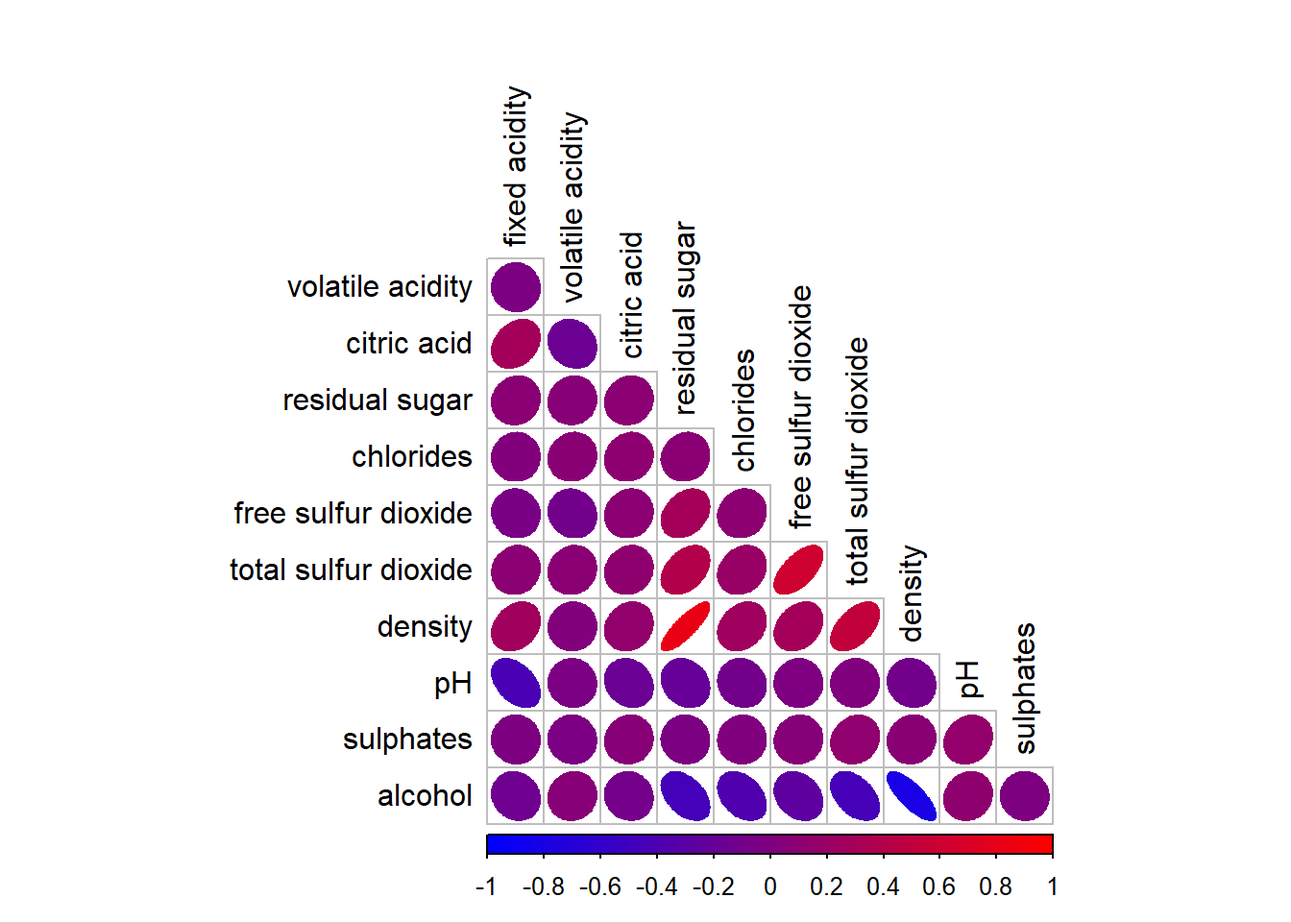
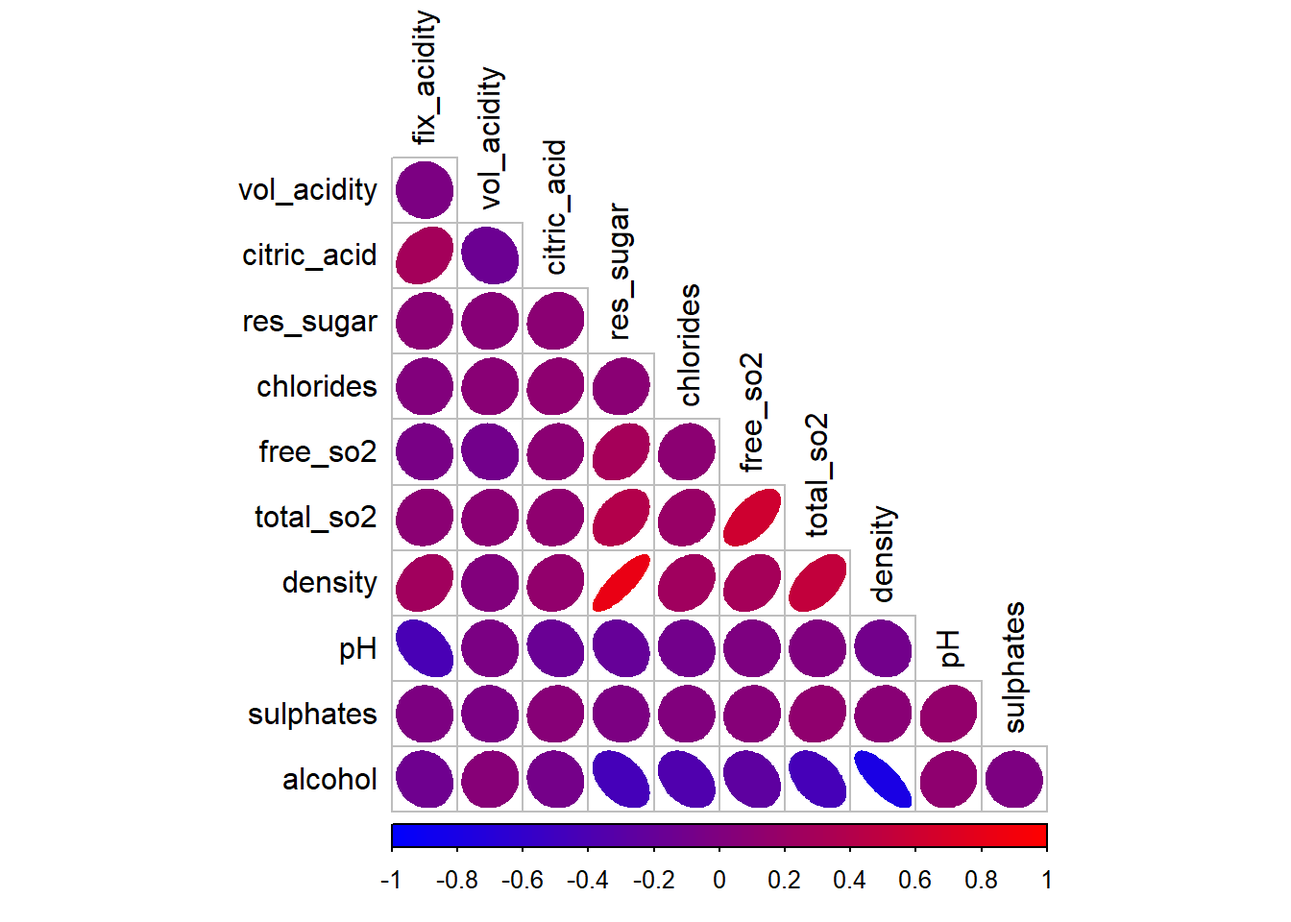
reduce-dim.qmd: replace wine_quality tibble with wq_data, which abbreviates the names of the 13 variables (columns).

Changed region(s): [[0.1875, 0.0, 0.8125, 0.9688]]

diff --git a/_book/reduce-dim.html b/_book/reduce-dim.html
@@ -395,7 +395,9 @@ window.Quarto = {
   <ul class="collapse">
   <li><a href="#model-of-k-categories" id="toc-model-of-k-categories" class="nav-link" data-scroll-target="#model-of-k-categories"><span class="header-section-number">7.4.1.1</span> Model of <span class="math inline">\(K\)</span> Categories</a></li>
   <li><a href="#binary-case-k-2" id="toc-binary-case-k-2" class="nav-link" data-scroll-target="#binary-case-k-2"><span class="header-section-number">7.4.1.2</span> Binary Case: <span class="math inline">\(K = 2\)</span></a></li>
-  <li><a href="#wine-quality-example" id="toc-wine-quality-example" class="nav-link" data-scroll-target="#wine-quality-example"><span class="header-section-number">7.4.1.3</span> Wine Quality Example</a></li>
+  <li><a href="#wine-quality-d-2-k-2" id="toc-wine-quality-d-2-k-2" class="nav-link" data-scroll-target="#wine-quality-d-2-k-2"><span class="header-section-number">7.4.1.3</span> Wine Quality: <span class="math inline">\(d = 2\)</span>, <span class="math inline">\(K = 2\)</span></a></li>
+  <li><a href="#wine-quality-d-2-k-4" id="toc-wine-quality-d-2-k-4" class="nav-link" data-scroll-target="#wine-quality-d-2-k-4"><span class="header-section-number">7.4.1.4</span> Wine Quality: <span class="math inline">\(d = 2\)</span>, <span class="math inline">\(K = 4\)</span></a></li>
+  <li><a href="#wine-quality-d-11-k-2" id="toc-wine-quality-d-11-k-2" class="nav-link" data-scroll-target="#wine-quality-d-11-k-2"><span class="header-section-number">7.4.1.5</span> Wine Quality: <span class="math inline">\(d = 11\)</span>, <span class="math inline">\(K = 2\)</span></a></li>
   </ul></li>
   <li><a href="#pls-partial-least-squares" id="toc-pls-partial-least-squares" class="nav-link" data-scroll-target="#pls-partial-least-squares"><span class="header-section-number">7.4.2</span> PLS: Partial Least Squares</a></li>
   </ul></li>
@@ -441,7 +443,7 @@ window.Quarto = {
     <div>
     <div class="quarto-title-meta-heading">Published</div>
     <div class="quarto-title-meta-contents">
-      <p class="date">11:15 Mon 17-Nov-2025</p>
+      <p class="date">06:21 Tue 18-Nov-2025</p>
     </div>
   </div>
   
@@ -641,8 +643,8 @@ Figure&nbsp;7.1: Violent Crime Rates per US State (1973)
 <div id="fig-arrests-3d-scatter" class="cell-output-display quarto-float quarto-figure quarto-figure-center anchored">
 <figure class="quarto-float quarto-float-fig figure">
 <div aria-describedby="fig-arrests-3d-scatter-caption-0ceaefa1-69ba-4598-a22c-09a6ac19f8ca">
-<div class="plotly html-widget html-fill-item" id="htmlwidget-da0c208e6eccc521fa19" style="width:100%;height:464px;"></div>
-<script type="application/json" data-for="htmlwidget-da0c208e6eccc521fa19">{"x":{"visdat":{"38f03af828eb":["function () ","plotlyVisDat"]},"cur_data":"38f03af828eb","attrs":{"38f03af828eb":{"x":{},"y":{},"z":{},"mode":"markers","text":{},"marker":{"size":5,"color":{},"colorscale":"Viridis","showscale":true,"colorbar":{"title":"UrbanPop"}},"alpha_stroke":1,"sizes":[10,100],"spans":[1,20],"type":"scatter3d"}},"layout":{"margin":{"b":40,"l":60,"t":25,"r":10},"scene":{"xaxis":{"title":"Assault"},"yaxis":{"title":"Rape"},"zaxis":{"title":"Murder"}},"title":"Violent Crime Rates in each US State (1973)","hovermode":"closest","showlegend":false},"source":"A","config":{"modeBarButtonsToAdd":["hoverclosest","hovercompare"],"showSendToCloud":false},"data":[{"x":[236,263,294,190,276,204,110,238,335,211,46,120,249,113,56,115,109,249,83,300,149,255,72,259,178,109,102,252,57,159,285,254,337,45,120,151,159,106,174,279,86,188,201,120,48,156,145,81,53,161],"y":[21.199999999999999,44.5,31,19.5,40.600000000000001,38.700000000000003,11.1,15.800000000000001,31.899999999999999,25.800000000000001,20.199999999999999,14.199999999999999,24,21,11.300000000000001,18,16.300000000000001,22.199999999999999,7.7999999999999998,27.800000000000001,16.300000000000001,35.100000000000001,14.9,17.100000000000001,28.199999999999999,16.399999999999999,16.5,46,9.5,18.800000000000001,32.100000000000001,26.100000000000001,16.100000000000001,7.2999999999999998,21.399999999999999,20,29.300000000000001,14.9,8.3000000000000007,22.5,12.800000000000001,26.899999999999999,25.5,22.899999999999999,11.199999999999999,20.699999999999999,26.199999999999999,9.3000000000000007,10.800000000000001,15.6],"z":[13.199999999999999,10,8.0999999999999996,8.8000000000000007,9,7.9000000000000004,3.2999999999999998,5.9000000000000004,15.4,17.399999999999999,5.2999999999999998,2.6000000000000001,10.4,7.2000000000000002,2.2000000000000002,6,9.6999999999999993,15.4,2.1000000000000001,11.300000000000001,4.4000000000000004,12.1,2.7000000000000002,16.100000000000001,9,6,4.2999999999999998,12.199999999999999,2.1000000000000001,7.4000000000000004,11.4,11.1,13,0.80000000000000004,7.2999999999999998,6.5999999999999996,4.9000000000000004,6.2999999999999998,3.3999999999999999,14.4,3.7999999999999998,13.199999999999999,12.699999999999999,3.2000000000000002,2.2000000000000002,8.5,4,5.7000000000000002,2.6000000000000001,6.7999999999999998],"mode":"markers","text":["AL","AK","AZ","AR","CA","CO","CT","DE","FL","GA","HI","ID","IL","IN","IA","KS","KY","LA","ME","MD","MA","MI","MN","MS","MO","MT","NE","NV","NH","NJ","NM","NY","NC","ND","OH","OK","OR","PA","RI","SC","SD","TN","TX","UT","VT","VA","WA","WV","WI","WY"],"marker":{"color":[58,48,80,50,91,78.5,77,72,80.5,60,83,54,83,65,57,66,52,66,51,76.599999999999994,85,74,66,44.5,70,53,61.5,81,56,89,70,86,45,44,75,68,67,71.5,87,48,45,59,80,80,32,63,73,39,66,60.5],"size":5,"colorscale":"Viridis","showscale":true,"colorbar":{"title":"UrbanPop"},"line":{"color":"rgba(31,119,180,1)"}},"type":"scatter3d","error_y":{"color":"rgba(31,119,180,1)"},"error_x":{"color":"rgba(31,119,180,1)"},"line":{"color":"rgba(31,119,180,1)"},"frame":null}],"highlight":{"on":"plotly_click","persistent":false,"dynamic":false,"selectize":false,"opacityDim":0.20000000000000001,"selected":{"opacity":1},"debounce":0},"shinyEvents":["plotly_hover","plotly_click","plotly_selected","plotly_relayout","plotly_brushed","plotly_brushing","plotly_clickannotation","plotly_doubleclick","plotly_deselect","plotly_afterplot","plotly_sunburstclick"],"base_url":"https://plot.ly"},"evals":[],"jsHooks":[]}</script>
+<div class="plotly html-widget html-fill-item" id="htmlwidget-3d6d928dc6110e070afd" style="width:100%;height:464px;"></div>
+<script type="application/json" data-for="htmlwidget-3d6d928dc6110e070afd">{"x":{"visdat":{"66077d33370":["function () ","plotlyVisDat"]},"cur_data":"66077d33370","attrs":{"66077d33370":{"x":{},"y":{},"z":{},"mode":"markers","text":{},"marker":{"size":5,"color":{},"colorscale":"Viridis","showscale":true,"colorbar":{"title":"UrbanPop"}},"alpha_stroke":1,"sizes":[10,100],"spans":[1,20],"type":"scatter3d"}},"layout":{"margin":{"b":40,"l":60,"t":25,"r":10},"scene":{"xaxis":{"title":"Assault"},"yaxis":{"title":"Rape"},"zaxis":{"title":"Murder"}},"title":"Violent Crime Rates in each US State (1973)","hovermode":"closest","showlegend":false},"source":"A","config":{"modeBarButtonsToAdd":["hoverclosest","hovercompare"],"showSendToCloud":false},"data":[{"x":[236,263,294,190,276,204,110,238,335,211,46,120,249,113,56,115,109,249,83,300,149,255,72,259,178,109,102,252,57,159,285,254,337,45,120,151,159,106,174,279,86,188,201,120,48,156,145,81,53,161],"y":[21.199999999999999,44.5,31,19.5,40.600000000000001,38.700000000000003,11.1,15.800000000000001,31.899999999999999,25.800000000000001,20.199999999999999,14.199999999999999,24,21,11.300000000000001,18,16.300000000000001,22.199999999999999,7.7999999999999998,27.800000000000001,16.300000000000001,35.100000000000001,14.9,17.100000000000001,28.199999999999999,16.399999999999999,16.5,46,9.5,18.800000000000001,32.100000000000001,26.100000000000001,16.100000000000001,7.2999999999999998,21.399999999999999,20,29.300000000000001,14.9,8.3000000000000007,22.5,12.800000000000001,26.899999999999999,25.5,22.899999999999999,11.199999999999999,20.699999999999999,26.199999999999999,9.3000000000000007,10.800000000000001,15.6],"z":[13.199999999999999,10,8.0999999999999996,8.8000000000000007,9,7.9000000000000004,3.2999999999999998,5.9000000000000004,15.4,17.399999999999999,5.2999999999999998,2.6000000000000001,10.4,7.2000000000000002,2.2000000000000002,6,9.6999999999999993,15.4,2.1000000000000001,11.300000000000001,4.4000000000000004,12.1,2.7000000000000002,16.100000000000001,9,6,4.2999999999999998,12.199999999999999,2.1000000000000001,7.4000000000000004,11.4,11.1,13,0.80000000000000004,7.2999999999999998,6.5999999999999996,4.9000000000000004,6.2999999999999998,3.3999999999999999,14.4,3.7999999999999998,13.199999999999999,12.699999999999999,3.2000000000000002,2.2000000000000002,8.5,4,5.7000000000000002,2.6000000000000001,6.7999999999999998],"mode":"markers","text":["AL","AK","AZ","AR","CA","CO","CT","DE","FL","GA","HI","ID","IL","IN","IA","KS","KY","LA","ME","MD","MA","MI","MN","MS","MO","MT","NE","NV","NH","NJ","NM","NY","NC","ND","OH","OK","OR","PA","RI","SC","SD","TN","TX","UT","VT","VA","WA","WV","WI","WY"],"marker":{"color":[58,48,80,50,91,78.5,77,72,80.5,60,83,54,83,65,57,66,52,66,51,76.599999999999994,85,74,66,44.5,70,53,61.5,81,56,89,70,86,45,44,75,68,67,71.5,87,48,45,59,80,80,32,63,73,39,66,60.5],"size":5,"colorscale":"Viridis","showscale":true,"colorbar":{"title":"UrbanPop"},"line":{"color":"rgba(31,119,180,1)"}},"type":"scatter3d","error_y":{"color":"rgba(31,119,180,1)"},"error_x":{"color":"rgba(31,119,180,1)"},"line":{"color":"rgba(31,119,180,1)"},"frame":null}],"highlight":{"on":"plotly_click","persistent":false,"dynamic":false,"selectize":false,"opacityDim":0.20000000000000001,"selected":{"opacity":1},"debounce":0},"shinyEvents":["plotly_hover","plotly_click","plotly_selected","plotly_relayout","plotly_brushed","plotly_brushing","plotly_clickannotation","plotly_doubleclick","plotly_deselect","plotly_afterplot","plotly_sunburstclick"],"base_url":"https://plot.ly"},"evals":[],"jsHooks":[]}</script>
 </div>
 <figcaption class="quarto-float-caption-bottom quarto-float-caption quarto-float-fig" id="fig-arrests-3d-scatter-caption-0ceaefa1-69ba-4598-a22c-09a6ac19f8ca">
 Figure&nbsp;7.2: Violent Crime Rates in each US State (1973)
@@ -827,22 +829,22 @@ Table&nbsp;7.4: Feature-quality correleations among (red, white) wines
 </thead>
 <tbody>
 <tr class="odd">
-<td style="text-align: left;">fixed acidity</td>
+<td style="text-align: left;">fix_acidity</td>
 <td style="text-align: right;">0.12</td>
 <td style="text-align: right;">-0.11</td>
 </tr>
 <tr class="even">
-<td style="text-align: left;">volatile acidity</td>
+<td style="text-align: left;">vol_acidity</td>
 <td style="text-align: right;">-0.39</td>
 <td style="text-align: right;">-0.19</td>
 </tr>
 <tr class="odd">
-<td style="text-align: left;">citric acid</td>
+<td style="text-align: left;">citric_acid</td>
 <td style="text-align: right;">0.23</td>
 <td style="text-align: right;">-0.01</td>
 </tr>
 <tr class="even">
-<td style="text-align: left;">residual sugar</td>
+<td style="text-align: left;">res_sugar</td>
 <td style="text-align: right;">0.01</td>
 <td style="text-align: right;">-0.10</td>
 </tr>
@@ -852,12 +854,12 @@ Table&nbsp;7.4: Feature-quality correleations among (red, white) wines
 <td style="text-align: right;">-0.21</td>
 </tr>
 <tr class="even">
-<td style="text-align: left;">free sulfur dioxide</td>
+<td style="text-align: left;">free_so2</td>
 <td style="text-align: right;">-0.05</td>
 <td style="text-align: right;">0.01</td>
 </tr>
 <tr class="odd">
-<td style="text-align: left;">total sulfur dioxide</td>
+<td style="text-align: left;">total_so2</td>
 <td style="text-align: right;">-0.19</td>
 <td style="text-align: right;">-0.17</td>
 </tr>
@@ -953,8 +955,8 @@ Figure&nbsp;7.6: Principal Components: (father, son) centered heights
 <div id="fig-arm-pca" class="cell-output-display quarto-float quarto-figure quarto-figure-center anchored">
 <figure class="quarto-float quarto-float-fig figure">
 <div aria-describedby="fig-arm-pca-caption-0ceaefa1-69ba-4598-a22c-09a6ac19f8ca">
-<div class="plotly html-widget html-fill-item" id="htmlwidget-109642606b304befbd61" style="width:100%;height:464px;"></div>
-<script type="application/json" data-for="htmlwidget-109642606b304befbd61">{"x":{"visdat":{"38f03ee91941":["function () ","plotlyVisDat"]},"cur_data":"38f03ee91941","attrs":{"38f03ee91941":{"x":[0.78283934708991831,1.106822522617628,1.4788032056309246,0.23086801100567186,1.2628144219457846,0.39885928720522512,-0.72908213870606098,0.80683810083271157,1.9707776573581877,0.48285492530500174,-1.4970422584754473,-0.60908836999209437,0.93883124641807492,-0.69308400809187098,-1.3770484897614808,-0.66908525434907773,-0.74108151557745772,0.93883124641807492,-1.0530653142337709,1.5507994668593046,-0.26110644072159123,1.0108275076464548,-1.185058459819134,1.0588250151320415,0.086875488548911931,-0.74108151557745772,-0.82507715367723433,0.9748293770322648,-1.3650491128900841,-0.14111267200762462,1.3708088137883547,0.99882813077505817,1.9947764111009809,-1.5090416353468439,-0.60908836999209437,-0.23710768697879792,-0.14111267200762462,-0.7770796461916476,0.038877981063325288,1.2988125525599747,-1.0170671836195808,0.20686925726287855,0.36286115659103513,-0.60908836999209437,-1.473043504732654,-0.17711080262181461,-0.3091039482071779,-1.0770640679765642,-1.4130466203756706,-0.11711391826483131],"y":[-0.0034164730151624227,2.4842029411499742,1.0428783878783285,-0.18491660194566589,2.0678202924270548,1.8649672071517862,-1.0817407684258011,-0.57994629432382061,1.1389666914297716,0.48770152291443553,-0.11018125473898803,-0.75076994508194173,0.29552491581154938,-0.024769429359927469,-1.0603878120810357,-0.3450637745314043,-0.52656390346190773,0.10334830870866318,-1.4340645481144254,0.70123108636208675,-0.52656390346190773,1.4806139929460138,-0.67603459787526365,-0.44115207808284718,0.74393699905161681,-0.51588742528952547,-0.50521094711714276,2.6443501137357126,-1.252564419183922,-0.25965194915234374,1.160319647774537,0.51973095743158326,-0.54791685980667282,-1.4874469389763383,0.017936483329602623,-0.13153421108375307,0.86137825894782516,-0.67603459787526365,-1.3806821572525125,0.13537774322581095,-0.90024063949529742,0.60514278281064349,0.45567208839728779,0.17808365591534103,-1.0710642902534184,-0.05679886387707523,0.53040743560396564,-1.273917375528687,-1.1137702029429486,-0.60129925066858581],"z":[1.2425640838811227,0.50786248217757646,0.071633406166095634,0.23234938153874665,0.27826823164521813,0.025714556059624149,-1.0304189963892241,-0.43347394500509234,1.747671435052311,2.2068599361170271,-0.57123049532450743,-1.1911349717618749,0.59970018239051981,-0.13500141931302667,-1.282972671974818,-0.41051451995185662,0.43898420701786878,1.747671435052311,-1.3059320970280539,0.8063350078696423,-0.7778653208036298,0.99001040829552867,-1.1681755467086388,1.9083874104249621,0.27826823164521813,-0.41051451995185662,-0.80082474585686569,1.0129698333487644,-1.3059320970280539,-0.089082569206554982,0.82929443292287808,0.7604161577631704,1.1966452337746512,-1.6044046227201196,-0.11204199425979093,-0.27275796963244175,-0.66306819553745067,-0.34163624479214921,-1.007459571335988,1.5180771845199528,-0.91562187112304483,1.2425640838811227,1.1277669586149435,-1.0533784214424597,-1.282972671974818,0.16347110637903903,-0.86970302101657315,-0.47939279511156407,-1.1911349717618749,-0.22683911952597005],"mode":"markers","text":["AL","AK","AZ","AR","CA","CO","CT","DE","FL","GA","HI","ID","IL","IN","IA","KS","KY","LA","ME","MD","MA","MI","MN","MS","MO","MT","NE","NV","NH","NJ","NM","NY","NC","ND","OH","OK","OR","PA","RI","SC","SD","TN","TX","UT","VT","VA","WA","WV","WI","WY"],"marker":{"size":4,"color":"steelblue","opacity":0.69999999999999996},"name":"State","alpha_stroke":1,"sizes":[10,100],"spans":[1,20],"type":"scatter3d"},"38f03ee91941.1":{"x":[0,1.5489298635318458],"y":[0,1.3741651111024438],"z":[0,1.4842670890217005],"type":"scatter3d","mode":"lines","line":{"width":6,"color":"darkorange"},"name":"PC1","showlegend":false,"inherit":false},"38f03ee91941.2":{"x":[0,-0.29354746751601463],"y":[0,1.1219106831632701],"z":[0,-0.73235207316550643],"type":"scatter3d","mode":"lines","line":{"width":6,"color":"purple"},"name":"PC2","showlegend":false,"inherit":false},"38f03ee91941.3":{"x":[0,0.68703516343273274],"y":[0,-0.17966971158361228],"z":[0,-0.55062423656922754],"type":"scatter3d","mode":"lines","line":{"width":6,"color":"darkgreen"},"name":"PC3","showlegend":false,"inherit":false}},"layout":{"margin":{"b":40,"l":60,"t":25,"r":10},"scene":{"xaxis":{"title":"z_Assault"},"yaxis":{"title":"z_Rape"},"zaxis":{"title":"z_Murder"},"aspectmode":"cube"},"title":"US Arrest Z-scores: Principal Components","hovermode":"closest","showlegend":false},"source":"A","config":{"modeBarButtonsToAdd":["hoverclosest","hovercompare"],"showSendToCloud":false},"data":[{"x":[0.78283934708991831,1.106822522617628,1.4788032056309246,0.23086801100567186,1.2628144219457846,0.39885928720522512,-0.72908213870606098,0.80683810083271157,1.9707776573581877,0.48285492530500174,-1.4970422584754473,-0.60908836999209437,0.93883124641807492,-0.69308400809187098,-1.3770484897614808,-0.66908525434907773,-0.74108151557745772,0.93883124641807492,-1.0530653142337709,1.5507994668593046,-0.26110644072159123,1.0108275076464548,-1.185058459819134,1.0588250151320415,0.086875488548911931,-0.74108151557745772,-0.82507715367723433,0.9748293770322648,-1.3650491128900841,-0.14111267200762462,1.3708088137883547,0.99882813077505817,1.9947764111009809,-1.5090416353468439,-0.60908836999209437,-0.23710768697879792,-0.14111267200762462,-0.7770796461916476,0.038877981063325288,1.2988125525599747,-1.0170671836195808,0.20686925726287855,0.36286115659103513,-0.60908836999209437,-1.473043504732654,-0.17711080262181461,-0.3091039482071779,-1.0770640679765642,-1.4130466203756706,-0.11711391826483131],"y":[-0.0034164730151624227,2.4842029411499742,1.0428783878783285,-0.18491660194566589,2.0678202924270548,1.8649672071517862,-1.0817407684258011,-0.57994629432382061,1.1389666914297716,0.48770152291443553,-0.11018125473898803,-0.75076994508194173,0.29552491581154938,-0.024769429359927469,-1.0603878120810357,-0.3450637745314043,-0.52656390346190773,0.10334830870866318,-1.4340645481144254,0.70123108636208675,-0.52656390346190773,1.4806139929460138,-0.67603459787526365,-0.44115207808284718,0.74393699905161681,-0.51588742528952547,-0.50521094711714276,2.6443501137357126,-1.252564419183922,-0.25965194915234374,1.160319647774537,0.51973095743158326,-0.54791685980667282,-1.4874469389763383,0.017936483329602623,-0.13153421108375307,0.86137825894782516,-0.67603459787526365,-1.3806821572525125,0.13537774322581095,-0.90024063949529742,0.60514278281064349,0.45567208839728779,0.17808365591534103,-1.0710642902534184,-0.05679886387707523,0.53040743560396564,-1.273917375528687,-1.1137702029429486,-0.60129925066858581],"z":[1.2425640838811227,0.50786248217757646,0.071633406166095634,0.23234938153874665,0.27826823164521813,0.025714556059624149,-1.0304189963892241,-0.43347394500509234,1.747671435052311,2.2068599361170271,-0.57123049532450743,-1.1911349717618749,0.59970018239051981,-0.13500141931302667,-1.282972671974818,-0.41051451995185662,0.43898420701786878,1.747671435052311,-1.3059320970280539,0.8063350078696423,-0.7778653208036298,0.99001040829552867,-1.1681755467086388,1.9083874104249621,0.27826823164521813,-0.41051451995185662,-0.80082474585686569,1.0129698333487644,-1.3059320970280539,-0.089082569206554982,0.82929443292287808,0.7604161577631704,1.1966452337746512,-1.6044046227201196,-0.11204199425979093,-0.27275796963244175,-0.66306819553745067,-0.34163624479214921,-1.007459571335988,1.5180771845199528,-0.91562187112304483,1.2425640838811227,1.1277669586149435,-1.0533784214424597,-1.282972671974818,0.16347110637903903,-0.86970302101657315,-0.47939279511156407,-1.1911349717618749,-0.22683911952597005],"mode":"markers","text":["AL","AK","AZ","AR","CA","CO","CT","DE","FL","GA","HI","ID","IL","IN","IA","KS","KY","LA","ME","MD","MA","MI","MN","MS","MO","MT","NE","NV","NH","NJ","NM","NY","NC","ND","OH","OK","OR","PA","RI","SC","SD","TN","TX","UT","VT","VA","WA","WV","WI","WY"],"marker":{"color":"steelblue","size":4,"opacity":0.69999999999999996,"line":{"color":"rgba(31,119,180,1)"}},"name":"State","type":"scatter3d","error_y":{"color":"rgba(31,119,180,1)"},"error_x":{"color":"rgba(31,119,180,1)"},"line":{"color":"rgba(31,119,180,1)"},"frame":null},{"x":[0,1.5489298635318458],"y":[0,1.3741651111024438],"z":[0,1.4842670890217005],"type":"scatter3d","mode":"lines","line":{"color":"darkorange","width":6},"name":"PC1","showlegend":false,"marker":{"color":"rgba(255,127,14,1)","line":{"color":"rgba(255,127,14,1)"}},"error_y":{"color":"rgba(255,127,14,1)"},"error_x":{"color":"rgba(255,127,14,1)"},"frame":null},{"x":[0,-0.29354746751601463],"y":[0,1.1219106831632701],"z":[0,-0.73235207316550643],"type":"scatter3d","mode":"lines","line":{"color":"purple","width":6},"name":"PC2","showlegend":false,"marker":{"color":"rgba(44,160,44,1)","line":{"color":"rgba(44,160,44,1)"}},"error_y":{"color":"rgba(44,160,44,1)"},"error_x":{"color":"rgba(44,160,44,1)"},"frame":null},{"x":[0,0.68703516343273274],"y":[0,-0.17966971158361228],"z":[0,-0.55062423656922754],"type":"scatter3d","mode":"lines","line":{"color":"darkgreen","width":6},"name":"PC3","showlegend":false,"marker":{"color":"rgba(214,39,40,1)","line":{"color":"rgba(214,39,40,1)"}},"error_y":{"color":"rgba(214,39,40,1)"},"error_x":{"color":"rgba(214,39,40,1)"},"frame":null}],"highlight":{"on":"plotly_click","persistent":false,"dynamic":false,"selectize":false,"opacityDim":0.20000000000000001,"selected":{"opacity":1},"debounce":0},"shinyEvents":["plotly_hover","plotly_click","plotly_selected","plotly_relayout","plotly_brushed","plotly_brushing","plotly_clickannotation","plotly_doubleclick","plotly_deselect","plotly_afterplot","plotly_sunburstclick"],"base_url":"https://plot.ly"},"evals":[],"jsHooks":[]}</script>
+<div class="plotly html-widget html-fill-item" id="htmlwidget-6999f51fd23ca06a07e8" style="width:100%;height:464px;"></div>
+<script type="application/json" data-for="htmlwidget-6999f51fd23ca06a07e8">{"x":{"visdat":{"66065b31e3d":["function () ","plotlyVisDat"]},"cur_data":"66065b31e3d","attrs":{"66065b31e3d":{"x":[0.78283934708991831,1.106822522617628,1.4788032056309246,0.23086801100567186,1.2628144219457846,0.39885928720522512,-0.72908213870606098,0.80683810083271157,1.9707776573581877,0.48285492530500174,-1.4970422584754473,-0.60908836999209437,0.93883124641807492,-0.69308400809187098,-1.3770484897614808,-0.66908525434907773,-0.74108151557745772,0.93883124641807492,-1.0530653142337709,1.5507994668593046,-0.26110644072159123,1.0108275076464548,-1.185058459819134,1.0588250151320415,0.086875488548911931,-0.74108151557745772,-0.82507715367723433,0.9748293770322648,-1.3650491128900841,-0.14111267200762462,1.3708088137883547,0.99882813077505817,1.9947764111009809,-1.5090416353468439,-0.60908836999209437,-0.23710768697879792,-0.14111267200762462,-0.7770796461916476,0.038877981063325288,1.2988125525599747,-1.0170671836195808,0.20686925726287855,0.36286115659103513,-0.60908836999209437,-1.473043504732654,-0.17711080262181461,-0.3091039482071779,-1.0770640679765642,-1.4130466203756706,-0.11711391826483131],"y":[-0.0034164730151624227,2.4842029411499742,1.0428783878783285,-0.18491660194566589,2.0678202924270548,1.8649672071517862,-1.0817407684258011,-0.57994629432382061,1.1389666914297716,0.48770152291443553,-0.11018125473898803,-0.75076994508194173,0.29552491581154938,-0.024769429359927469,-1.0603878120810357,-0.3450637745314043,-0.52656390346190773,0.10334830870866318,-1.4340645481144254,0.70123108636208675,-0.52656390346190773,1.4806139929460138,-0.67603459787526365,-0.44115207808284718,0.74393699905161681,-0.51588742528952547,-0.50521094711714276,2.6443501137357126,-1.252564419183922,-0.25965194915234374,1.160319647774537,0.51973095743158326,-0.54791685980667282,-1.4874469389763383,0.017936483329602623,-0.13153421108375307,0.86137825894782516,-0.67603459787526365,-1.3806821572525125,0.13537774322581095,-0.90024063949529742,0.60514278281064349,0.45567208839728779,0.17808365591534103,-1.0710642902534184,-0.05679886387707523,0.53040743560396564,-1.273917375528687,-1.1137702029429486,-0.60129925066858581],"z":[1.2425640838811227,0.50786248217757646,0.071633406166095634,0.23234938153874665,0.27826823164521813,0.025714556059624149,-1.0304189963892241,-0.43347394500509234,1.747671435052311,2.2068599361170271,-0.57123049532450743,-1.1911349717618749,0.59970018239051981,-0.13500141931302667,-1.282972671974818,-0.41051451995185662,0.43898420701786878,1.747671435052311,-1.3059320970280539,0.8063350078696423,-0.7778653208036298,0.99001040829552867,-1.1681755467086388,1.9083874104249621,0.27826823164521813,-0.41051451995185662,-0.80082474585686569,1.0129698333487644,-1.3059320970280539,-0.089082569206554982,0.82929443292287808,0.7604161577631704,1.1966452337746512,-1.6044046227201196,-0.11204199425979093,-0.27275796963244175,-0.66306819553745067,-0.34163624479214921,-1.007459571335988,1.5180771845199528,-0.91562187112304483,1.2425640838811227,1.1277669586149435,-1.0533784214424597,-1.282972671974818,0.16347110637903903,-0.86970302101657315,-0.47939279511156407,-1.1911349717618749,-0.22683911952597005],"mode":"markers","text":["AL","AK","AZ","AR","CA","CO","CT","DE","FL","GA","HI","ID","IL","IN","IA","KS","KY","LA","ME","MD","MA","MI","MN","MS","MO","MT","NE","NV","NH","NJ","NM","NY","NC","ND","OH","OK","OR","PA","RI","SC","SD","TN","TX","UT","VT","VA","WA","WV","WI","WY"],"marker":{"size":4,"color":"steelblue","opacity":0.69999999999999996},"name":"State","alpha_stroke":1,"sizes":[10,100],"spans":[1,20],"type":"scatter3d"},"66065b31e3d.1":{"x":[0,1.5489298635318458],"y":[0,1.3741651111024438],"z":[0,1.4842670890217005],"type":"scatter3d","mode":"lines","line":{"width":6,"color":"darkorange"},"name":"PC1","showlegend":false,"inherit":false},"66065b31e3d.2":{"x":[0,-0.29354746751601463],"y":[0,1.1219106831632701],"z":[0,-0.73235207316550643],"type":"scatter3d","mode":"lines","line":{"width":6,"color":"purple"},"name":"PC2","showlegend":false,"inherit":false},"66065b31e3d.3":{"x":[0,0.68703516343273274],"y":[0,-0.17966971158361228],"z":[0,-0.55062423656922754],"type":"scatter3d","mode":"lines","line":{"width":6,"color":"darkgreen"},"name":"PC3","showlegend":false,"inherit":false}},"layout":{"margin":{"b":40,"l":60,"t":25,"r":10},"scene":{"xaxis":{"title":"z_Assault"},"yaxis":{"title":"z_Rape"},"zaxis":{"title":"z_Murder"},"aspectmode":"cube"},"title":"US Arrest Z-scores: Principal Components","hovermode":"closest","showlegend":false},"source":"A","config":{"modeBarButtonsToAdd":["hoverclosest","hovercompare"],"showSendToCloud":false},"data":[{"x":[0.78283934708991831,1.106822522617628,1.4788032056309246,0.23086801100567186,1.2628144219457846,0.39885928720522512,-0.72908213870606098,0.80683810083271157,1.9707776573581877,0.48285492530500174,-1.4970422584754473,-0.60908836999209437,0.93883124641807492,-0.69308400809187098,-1.3770484897614808,-0.66908525434907773,-0.74108151557745772,0.93883124641807492,-1.0530653142337709,1.5507994668593046,-0.26110644072159123,1.0108275076464548,-1.185058459819134,1.0588250151320415,0.086875488548911931,-0.74108151557745772,-0.82507715367723433,0.9748293770322648,-1.3650491128900841,-0.14111267200762462,1.3708088137883547,0.99882813077505817,1.9947764111009809,-1.5090416353468439,-0.60908836999209437,-0.23710768697879792,-0.14111267200762462,-0.7770796461916476,0.038877981063325288,1.2988125525599747,-1.0170671836195808,0.20686925726287855,0.36286115659103513,-0.60908836999209437,-1.473043504732654,-0.17711080262181461,-0.3091039482071779,-1.0770640679765642,-1.4130466203756706,-0.11711391826483131],"y":[-0.0034164730151624227,2.4842029411499742,1.0428783878783285,-0.18491660194566589,2.0678202924270548,1.8649672071517862,-1.0817407684258011,-0.57994629432382061,1.1389666914297716,0.48770152291443553,-0.11018125473898803,-0.75076994508194173,0.29552491581154938,-0.024769429359927469,-1.0603878120810357,-0.3450637745314043,-0.52656390346190773,0.10334830870866318,-1.4340645481144254,0.70123108636208675,-0.52656390346190773,1.4806139929460138,-0.67603459787526365,-0.44115207808284718,0.74393699905161681,-0.51588742528952547,-0.50521094711714276,2.6443501137357126,-1.252564419183922,-0.25965194915234374,1.160319647774537,0.51973095743158326,-0.54791685980667282,-1.4874469389763383,0.017936483329602623,-0.13153421108375307,0.86137825894782516,-0.67603459787526365,-1.3806821572525125,0.13537774322581095,-0.90024063949529742,0.60514278281064349,0.45567208839728779,0.17808365591534103,-1.0710642902534184,-0.05679886387707523,0.53040743560396564,-1.273917375528687,-1.1137702029429486,-0.60129925066858581],"z":[1.2425640838811227,0.50786248217757646,0.071633406166095634,0.23234938153874665,0.27826823164521813,0.025714556059624149,-1.0304189963892241,-0.43347394500509234,1.747671435052311,2.2068599361170271,-0.57123049532450743,-1.1911349717618749,0.59970018239051981,-0.13500141931302667,-1.282972671974818,-0.41051451995185662,0.43898420701786878,1.747671435052311,-1.3059320970280539,0.8063350078696423,-0.7778653208036298,0.99001040829552867,-1.1681755467086388,1.9083874104249621,0.27826823164521813,-0.41051451995185662,-0.80082474585686569,1.0129698333487644,-1.3059320970280539,-0.089082569206554982,0.82929443292287808,0.7604161577631704,1.1966452337746512,-1.6044046227201196,-0.11204199425979093,-0.27275796963244175,-0.66306819553745067,-0.34163624479214921,-1.007459571335988,1.5180771845199528,-0.91562187112304483,1.2425640838811227,1.1277669586149435,-1.0533784214424597,-1.282972671974818,0.16347110637903903,-0.86970302101657315,-0.47939279511156407,-1.1911349717618749,-0.22683911952597005],"mode":"markers","text":["AL","AK","AZ","AR","CA","CO","CT","DE","FL","GA","HI","ID","IL","IN","IA","KS","KY","LA","ME","MD","MA","MI","MN","MS","MO","MT","NE","NV","NH","NJ","NM","NY","NC","ND","OH","OK","OR","PA","RI","SC","SD","TN","TX","UT","VT","VA","WA","WV","WI","WY"],"marker":{"color":"steelblue","size":4,"opacity":0.69999999999999996,"line":{"color":"rgba(31,119,180,1)"}},"name":"State","type":"scatter3d","error_y":{"color":"rgba(31,119,180,1)"},"error_x":{"color":"rgba(31,119,180,1)"},"line":{"color":"rgba(31,119,180,1)"},"frame":null},{"x":[0,1.5489298635318458],"y":[0,1.3741651111024438],"z":[0,1.4842670890217005],"type":"scatter3d","mode":"lines","line":{"color":"darkorange","width":6},"name":"PC1","showlegend":false,"marker":{"color":"rgba(255,127,14,1)","line":{"color":"rgba(255,127,14,1)"}},"error_y":{"color":"rgba(255,127,14,1)"},"error_x":{"color":"rgba(255,127,14,1)"},"frame":null},{"x":[0,-0.29354746751601463],"y":[0,1.1219106831632701],"z":[0,-0.73235207316550643],"type":"scatter3d","mode":"lines","line":{"color":"purple","width":6},"name":"PC2","showlegend":false,"marker":{"color":"rgba(44,160,44,1)","line":{"color":"rgba(44,160,44,1)"}},"error_y":{"color":"rgba(44,160,44,1)"},"error_x":{"color":"rgba(44,160,44,1)"},"frame":null},{"x":[0,0.68703516343273274],"y":[0,-0.17966971158361228],"z":[0,-0.55062423656922754],"type":"scatter3d","mode":"lines","line":{"color":"darkgreen","width":6},"name":"PC3","showlegend":false,"marker":{"color":"rgba(214,39,40,1)","line":{"color":"rgba(214,39,40,1)"}},"error_y":{"color":"rgba(214,39,40,1)"},"error_x":{"color":"rgba(214,39,40,1)"},"frame":null}],"highlight":{"on":"plotly_click","persistent":false,"dynamic":false,"selectize":false,"opacityDim":0.20000000000000001,"selected":{"opacity":1},"debounce":0},"shinyEvents":["plotly_hover","plotly_click","plotly_selected","plotly_relayout","plotly_brushed","plotly_brushing","plotly_clickannotation","plotly_doubleclick","plotly_deselect","plotly_afterplot","plotly_sunburstclick"],"base_url":"https://plot.ly"},"evals":[],"jsHooks":[]}</script>
 </div>
 <figcaption class="quarto-float-caption-bottom quarto-float-caption quarto-float-fig" id="fig-arm-pca-caption-0ceaefa1-69ba-4598-a22c-09a6ac19f8ca">
 Figure&nbsp;7.7: US Arrest Z-scores: Principal Components
@@ -1331,25 +1333,25 @@ Table&nbsp;7.6: Wine quality variables: mean and standard deviation
 <tbody>
 <tr class="odd">
 <td style="text-align: right;">1</td>
-<td style="text-align: left;">fixed acidity</td>
+<td style="text-align: left;">fix_acidity</td>
 <td style="text-align: right;">7.22</td>
 <td style="text-align: right;">1.30</td>
 </tr>
 <tr class="even">
 <td style="text-align: right;">2</td>
-<td style="text-align: left;">volatile acidity</td>
+<td style="text-align: left;">vol_acidity</td>
 <td style="text-align: right;">0.34</td>
 <td style="text-align: right;">0.16</td>
 </tr>
 <tr class="odd">
 <td style="text-align: right;">3</td>
-<td style="text-align: left;">citric acid</td>
+<td style="text-align: left;">citric_acid</td>
 <td style="text-align: right;">0.32</td>
 <td style="text-align: right;">0.15</td>
 </tr>
 <tr class="even">
 <td style="text-align: right;">4</td>
-<td style="text-align: left;">residual sugar</td>
+<td style="text-align: left;">res_sugar</td>
 <td style="text-align: right;">5.44</td>
 <td style="text-align: right;">4.76</td>
 </tr>
@@ -1361,13 +1363,13 @@ Table&nbsp;7.6: Wine quality variables: mean and standard deviation
 </tr>
 <tr class="even">
 <td style="text-align: right;">6</td>
-<td style="text-align: left;">free sulfur dioxide</td>
+<td style="text-align: left;">free_so2</td>
 <td style="text-align: right;">30.53</td>
 <td style="text-align: right;">17.75</td>
 </tr>
 <tr class="odd">
 <td style="text-align: right;">7</td>
-<td style="text-align: left;">total sulfur dioxide</td>
+<td style="text-align: left;">total_so2</td>
 <td style="text-align: right;">115.74</td>
 <td style="text-align: right;">56.52</td>
 </tr>
@@ -1887,14 +1889,52 @@ Table&nbsp;7.8: Wine Quality PCA: wine color versus score_1 class
 \end{align}
 \qquad(7.26)\]</span></span></p>
 </section>
-<section id="wine-quality-example" class="level4" data-number="7.4.1.3">
-<h4 data-number="7.4.1.3" class="anchored" data-anchor-id="wine-quality-example"><span class="header-section-number">7.4.1.3</span> Wine Quality Example</h4>
-<p>To facilitate the interpretation of the LDA linear discriminant function (<code>LD1</code>), we re-scale the values of each feature to z-values, obtained by subtracting the mean and dividing by the standard deviation. The resulting coefficients fit by <code>R</code> function <code>MASS::lda()</code> are shown in <a href="#tbl-lda-coefficients" class="quarto-xref">Table&nbsp;<span>7.9</span></a>.</p>
+<section id="wine-quality-d-2-k-2" class="level4" data-number="7.4.1.3">
+<h4 data-number="7.4.1.3" class="anchored" data-anchor-id="wine-quality-d-2-k-2"><span class="header-section-number">7.4.1.3</span> Wine Quality: <span class="math inline">\(d = 2\)</span>, <span class="math inline">\(K = 2\)</span></h4>
+<div class="cell">
+<div id="tbl-2D-lda-coefficients" class="cell quarto-float quarto-figure quarto-figure-center anchored">
+<figure class="quarto-float quarto-float-tbl figure">
+<figcaption class="quarto-float-caption-top quarto-float-caption quarto-float-tbl" id="tbl-2D-lda-coefficients-caption-0ceaefa1-69ba-4598-a22c-09a6ac19f8ca">
+Table&nbsp;7.9: Wine Color: 2D LDA model coefficients
+</figcaption>
+<div aria-describedby="tbl-2D-lda-coefficients-caption-0ceaefa1-69ba-4598-a22c-09a6ac19f8ca">
+<div class="cell-output-display">
+<table class="do-not-create-environment cell caption-top table table-sm table-striped small">
+<caption>Wine Color: 2D LDA model coefficients</caption>
+<thead>
+<tr class="header">
+<th style="text-align: left;">feature</th>
+<th style="text-align: right;">LD1</th>
+</tr>
+</thead>
+<tbody>
+<tr class="odd">
+<td style="text-align: left;">res_sugar</td>
+<td style="text-align: right;">1.67</td>
+</tr>
+<tr class="even">
+<td style="text-align: left;">density</td>
+<td style="text-align: right;">-1.72</td>
+</tr>
+</tbody>
+</table>
+</div>
+</div>
+</figure>
+</div>
+</div>
+</section>
+<section id="wine-quality-d-2-k-4" class="level4" data-number="7.4.1.4">
+<h4 data-number="7.4.1.4" class="anchored" data-anchor-id="wine-quality-d-2-k-4"><span class="header-section-number">7.4.1.4</span> Wine Quality: <span class="math inline">\(d = 2\)</span>, <span class="math inline">\(K = 4\)</span></h4>
+</section>
+<section id="wine-quality-d-11-k-2" class="level4" data-number="7.4.1.5">
+<h4 data-number="7.4.1.5" class="anchored" data-anchor-id="wine-quality-d-11-k-2"><span class="header-section-number">7.4.1.5</span> Wine Quality: <span class="math inline">\(d = 11\)</span>, <span class="math inline">\(K = 2\)</span></h4>
+<p>To facilitate the interpretation of the LDA linear discriminant function (<code>LD1</code>), we re-scale the values of each feature to z-values, obtained by subtracting the mean and dividing by the standard deviation. The resulting coefficients fit by <code>R</code> function <code>MASS::lda()</code> are shown in <a href="#tbl-lda-coefficients" class="quarto-xref">Table&nbsp;<span>7.10</span></a>.</p>
 <div class="cell">
 <div id="tbl-lda-coefficients" class="cell quarto-float quarto-figure quarto-figure-center anchored">
 <figure class="quarto-float quarto-float-tbl figure">
 <figcaption class="quarto-float-caption-top quarto-float-caption quarto-float-tbl" id="tbl-lda-coefficients-caption-0ceaefa1-69ba-4598-a22c-09a6ac19f8ca">
-Table&nbsp;7.9: Wine Color LDA: model coefficients
+Table&nbsp;7.10: Wine Color LDA: model coefficients
 </figcaption>
 <div aria-describedby="tbl-lda-coefficients-caption-0ceaefa1-69ba-4598-a22c-09a6ac19f8ca">
 <div class="cell-output-display">
@@ -1908,19 +1948,19 @@ Table&nbsp;7.9: Wine Color LDA: model coefficients
 </thead>
 <tbody>
 <tr class="odd">
-<td style="text-align: left;">fixed acidity</td>
+<td style="text-align: left;">fix_acidity</td>
 <td style="text-align: right;">0.42</td>
 </tr>
 <tr class="even">
-<td style="text-align: left;">volatile acidity</td>
+<td style="text-align: left;">vol_acidity</td>
 <td style="text-align: right;">-0.50</td>
 </tr>
 <tr class="odd">
-<td style="text-align: left;">citric acid</td>
+<td style="text-align: left;">citric_acid</td>
 <td style="text-align: right;">0.13</td>
 </tr>
 <tr class="even">
-<td style="text-align: left;">residual sugar</td>
+<td style="text-align: left;">res_sugar</td>
 <td style="text-align: right;">1.67</td>
 </tr>
 <tr class="odd">
@@ -1928,11 +1968,11 @@ Table&nbsp;7.9: Wine Color LDA: model coefficients
 <td style="text-align: right;">-0.18</td>
 </tr>
 <tr class="even">
-<td style="text-align: left;">free sulfur dioxide</td>
+<td style="text-align: left;">free_so2</td>
 <td style="text-align: right;">-0.34</td>
 </tr>
 <tr class="odd">
-<td style="text-align: left;">total sulfur dioxide</td>
+<td style="text-align: left;">total_so2</td>
 <td style="text-align: right;">1.13</td>
 </tr>
 <tr class="even">
@@ -1959,12 +1999,12 @@ Table&nbsp;7.9: Wine Color LDA: model coefficients
 </div>
 </div>
 <p>The coefficients having a magnitude of nearly 1 or greater correspond to the following color-distinguishing features: residual sugar, total sulfur dioxide, density, and alcohol.</p>
-<p>Now let’s see how well this linear discriminant function, LD1, distinguished the actual red and white wines. <a href="#tbl-lda-xtabs-color" class="quarto-xref">Table&nbsp;<span>7.10</span></a> is a cross-tabulation of actual versus predicted color.</p>
+<p>Now let’s see how well this linear discriminant function, LD1, distinguished the actual red and white wines. <a href="#tbl-lda-xtabs-color" class="quarto-xref">Table&nbsp;<span>7.11</span></a> is a cross-tabulation of actual versus predicted color.</p>
 <div class="cell">
 <div id="tbl-lda-xtabs-color" class="cell quarto-float quarto-figure quarto-figure-center anchored">
 <figure class="quarto-float quarto-float-tbl figure">
 <figcaption class="quarto-float-caption-top quarto-float-caption quarto-float-tbl" id="tbl-lda-xtabs-color-caption-0ceaefa1-69ba-4598-a22c-09a6ac19f8ca">
-Table&nbsp;7.10: Wine Color: actual versus LDA prediction
+Table&nbsp;7.11: Wine Color: actual versus LDA prediction
 </figcaption>
 <div aria-describedby="tbl-lda-xtabs-color-caption-0ceaefa1-69ba-4598-a22c-09a6ac19f8ca">
 <div class="cell-output-display">
@@ -1997,7 +2037,7 @@ Table&nbsp;7.10: Wine Color: actual versus LDA prediction
 </div>
 <p>The mis-classification rates are remarkably low: about 1% for red wines, and 0.4% for white wines.</p>
 <p>Let’s look a bit deeper. Among the correct classifications, how many had decisive classification probabilities, as opposed to somewhat ambiguous probabilities?</p>
-<p><a href="#fig-wq-lda-color-probs" class="quarto-xref">Figure&nbsp;<span>7.14</span></a> addresses this question in a <span class="math inline">\(2 \times 2\)</span> matrix of cells. The LDA algorithm produces a pair of complementary probabilities, labeled <code>p.red</code> and <code>p.white</code>: for each case of data <span class="math inline">\(p.red + p.white = 1\)</span>. In each cell of the figure we see the distribution of both probabilities, one a mirror image of the other. If <span class="math inline">\(p.red \ge p.white\)</span> then the case is assigned class <code>c.red</code>; otherwise the case is assigned class <code>c.white</code>. These classifications mark the rows of the figure. Marking the columns are the actual colors, “red” and “white”. The layout matches that of <a href="#tbl-lda-xtabs-color" class="quarto-xref">Table&nbsp;<span>7.10</span></a>.</p>
+<p><a href="#fig-wq-lda-color-probs" class="quarto-xref">Figure&nbsp;<span>7.14</span></a> addresses this question in a <span class="math inline">\(2 \times 2\)</span> matrix of cells. The LDA algorithm produces a pair of complementary probabilities, labeled <code>p.red</code> and <code>p.white</code>: for each case of data <span class="math inline">\(p.red + p.white = 1\)</span>. In each cell of the figure we see the distribution of both probabilities, one a mirror image of the other. If <span class="math inline">\(p.red \ge p.white\)</span> then the case is assigned class <code>c.red</code>; otherwise the case is assigned class <code>c.white</code>. These classifications mark the rows of the figure. Marking the columns are the actual colors, “red” and “white”. The layout matches that of <a href="#tbl-lda-xtabs-color" class="quarto-xref">Table&nbsp;<span>7.11</span></a>.</p>
 <div class="cell">
 <div class="cell-output-display">
 <div id="fig-wq-lda-color-probs" class="quarto-float quarto-figure quarto-figure-center anchored">
